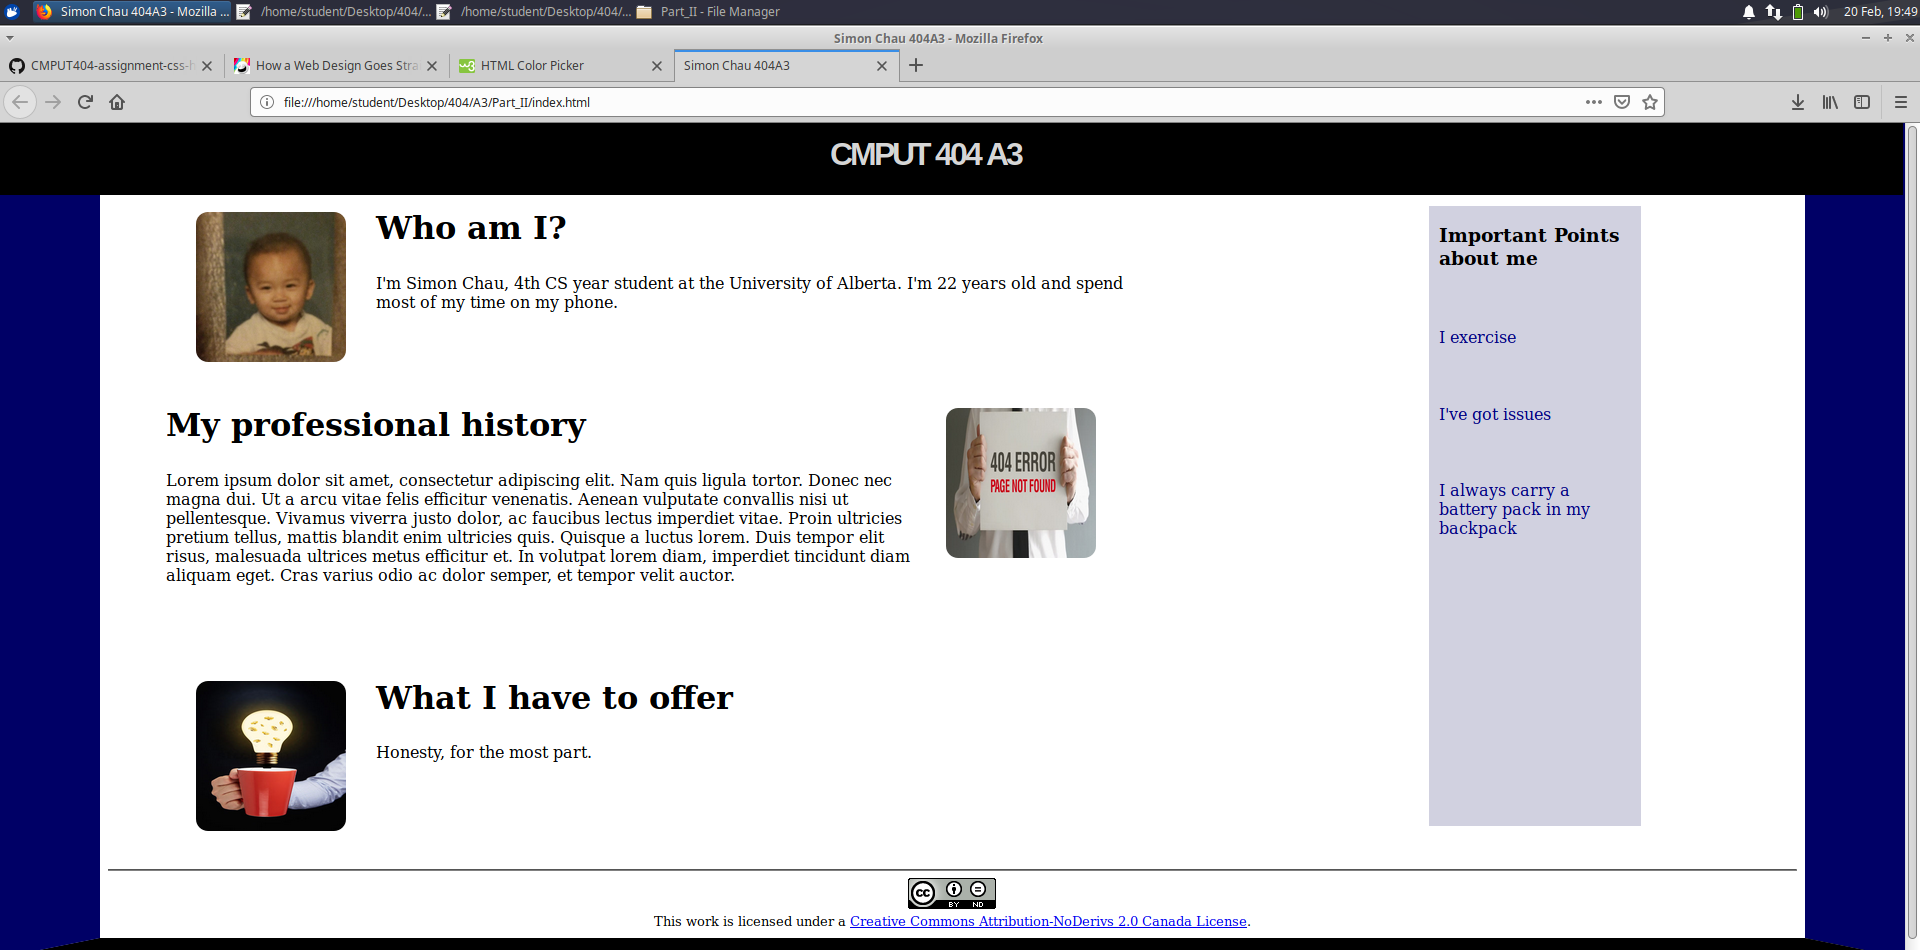
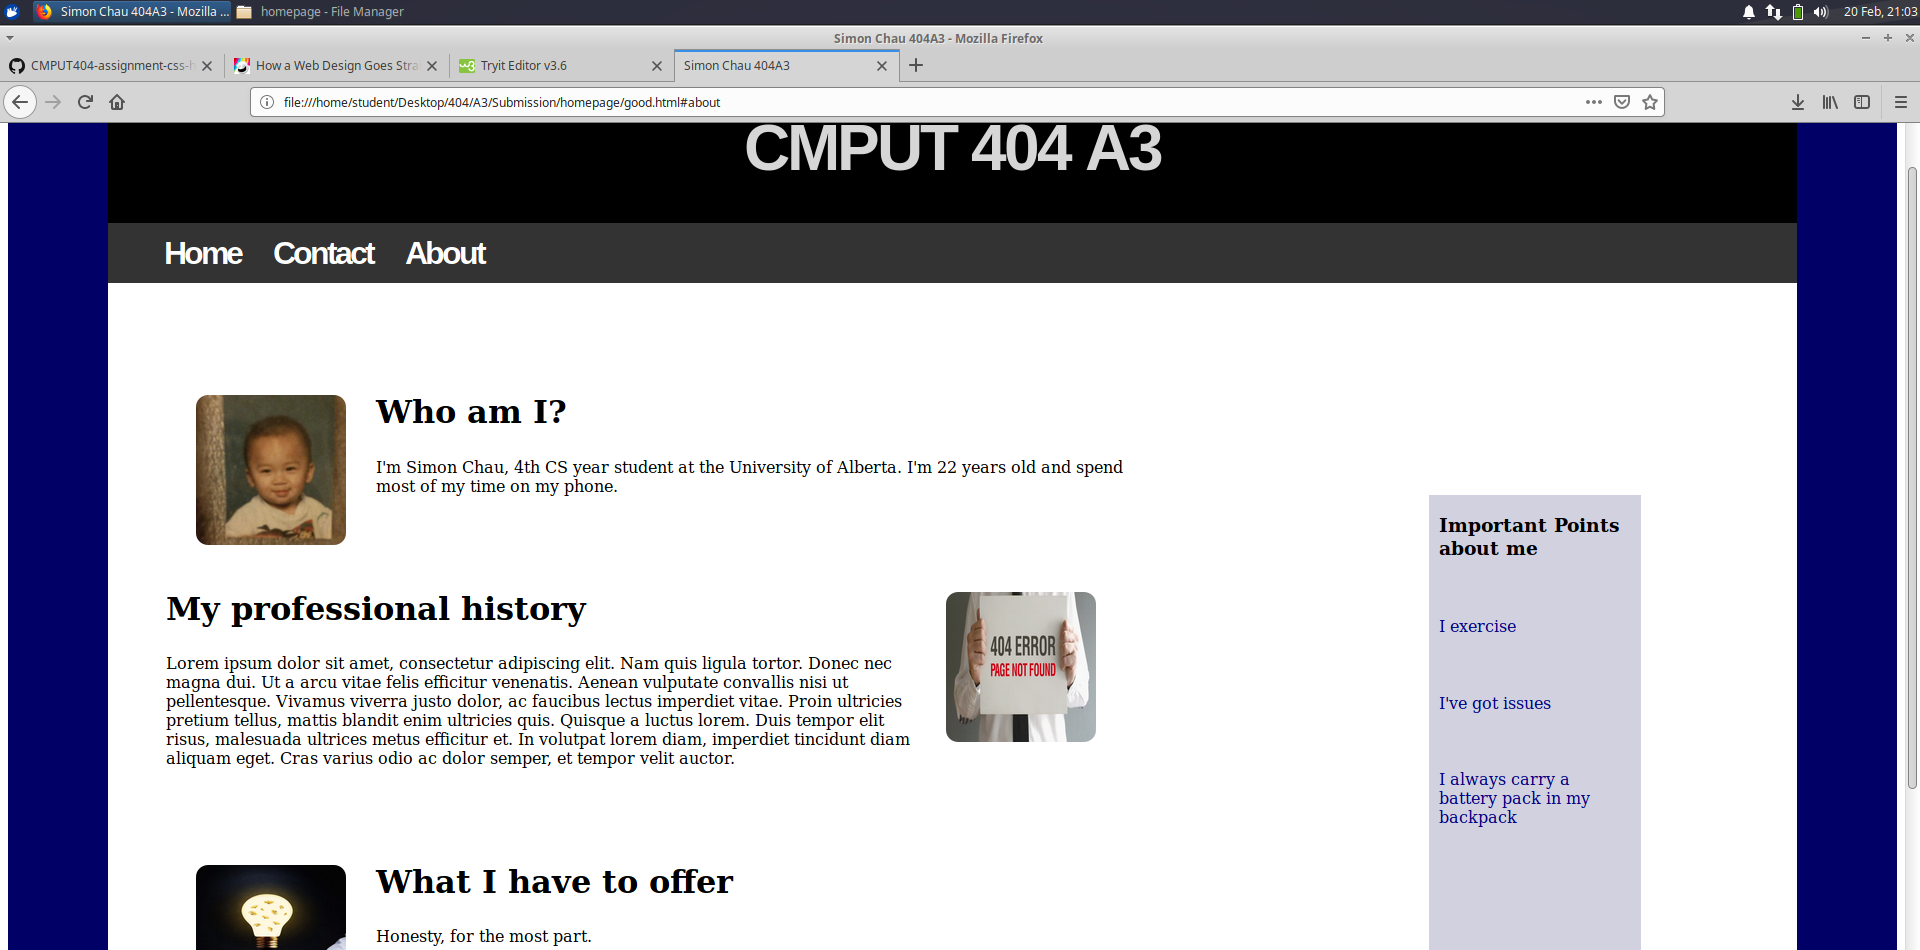
added a 'nav bar', changed bad css stylings and took new screenshots

diff --git a/homepage/ugly.css b/homepage/ugly.css
@@ -1,34 +1,61 @@
 #topHeader {
 	color: #d6d6d6;
-	padding: 100px;
-	background-color: blue;
+	padding: 25px;
+	background-image:  linear-gradient(to right, blue , yellow);
+	font-size: xx-large;
+	font-weight: 800;
+	letter-spacing: -3px;
+	line-height: 1;
+	position: relative;
+	text-align: center;
+	top: 0;
+	width: 100%;
+	font-family: 'Lobster', helvetica, arial;
 }
 
 html {
-	border-left: 200px dotted purple;
-	border-right: 200px dotted green;
-	border-bottom: 200px solid black;
 	font-family: "Comic Sans MS", cursive, sans-serif;
-	font-style: italic;
 }
+
+ul {
+	list-style-type: none;
+	overflow: hidden;
+	background-color: orange;
+	position: relative;
+}
+
+li {
+	float: left;
+	border: 1px solid black;
+}
+
+li a {
+	display: block;
+	color: black;
+	text-align: center;
+	padding: 15px 17px;
+	text-decoration: none;
+}
+
 
 .sectionPicture {
 	height: 200px;
 	width: 200px;
 	border-radius: 5%;
 	padding: 30px;
-	filter: invert(100%);
 }
 
 section {
-	padding-top: 3%;
 	padding-left: 3vw;
 	text-align: left;
 	width: 50vw;
+	background-color: pink;
+	border-radius: 20%;
+	padding: 50px;
 }
 
 h2 {
-	color: pink;
+	font-style: bold;
 }
 
 article {
@@ -36,14 +63,13 @@ article {
 	color: #000080;
 	width: 10vw;
 	height: 75%;
-	background-color: yellow;
+	background-color: #ffcc00;
 	margin-right: 20%;
-	bottom: 15%;
-	left: 75%;
 	padding-left: 10px;
 	padding-right: 10px;
 	position: absolute;
-	font-size: xx-large;
+	left: 75vw;
+	bottom: -28vh;
 }
 
 aside p {

diff --git a/homepage/good.css b/homepage/good.css
@@ -4,22 +4,42 @@
 	font-weight: 800;
 	letter-spacing: -3px;
 	line-height: 1;
-	position: absolute;
 	text-align: center;
 	top: 0;
-	margin-top: -10px;
 	width: 100%;
-	padding: 25px;
 	background-color: black;
 	font-family: 'Lobster', helvetica, arial;
-	margin-left: -160px;
 }
 
-html {
+body {
 	border-left: 100px solid #000066;
 	border-right: 100px solid #000066;
 	border-bottom: 20px solid black;
 }
+
+ul {
+  list-style-type: none;
+  overflow: hidden;
+  background-color: #333;
+  position: relative;
+}
+
+li {
+  float: left;
+}
+
+li a {
+  display: block;
+  color: white;
+  text-align: center;
+  padding: 14px 16px;
+  text-decoration: none;
+}
+
+li a:hover {
+  background-color: #111;
+}
+
 
 .sectionPicture {
 	height: 150px;
@@ -50,7 +70,7 @@ article {
 	height: 75%;
 	background-color: #d1d1e0;
 	margin-right: 20%;
-	bottom: 15%;
+	bottom: -26%;
 	left: 75%;
 	padding-left: 10px;
 	padding-right: 10px;

diff --git a/homepage/good.html b/homepage/good.html
@@ -7,10 +7,17 @@
 </head>
 <body>
 
+<div id="topHeader">
+<h1 id="home"> CMPUT 404 A3 </h1>
 
-<h1 id="topHeader"> CMPUT 404 A3 </h1>
+<ul>
+  <li><a class="active" href="#home">Home</a></li>
+  <li><a href="#contact">Contact</a></li>
+  <li><a href="#about">About</a></li>
+</ul>
+</div>
 
-<section>
+<section id="about">
 	<img class="sectionPicture" src="./images/me.jpg" alt="Simon Chau" align="left">
 	<h2> Who am I? </h2>
 	<p>
@@ -60,6 +67,7 @@
 <br />This work is licensed under a 
 <a rel="license" href="http://creativecommons.org/licenses/by-nd/2.0/ca/">
 Creative Commons Attribution-NoDerivs 2.0 Canada License</a>.
+<aside id="about"> https://github.com/shchau/ </aside>
 </footer>
 
 </body>

diff --git a/homepage/ugly.html b/homepage/ugly.html
@@ -7,10 +7,17 @@
 </head>
 <body>
 
+<div id="topHeader">
+<h1 id="home"> CMPUT 404 A3 </h1>
 
-<h1 id="topHeader"> CMPUT 404 A3 </h1>
+<ul>
+  <li><a class="active" href="#home">Home</a></li>
+  <li><a href="#contact">Contact</a></li>
+  <li><a href="#about">About</a></li>
+</ul>
+</div>
 
-<section>
+<section id="about">
 	<img class="sectionPicture" src="./images/me.jpg" alt="Simon Chau" align="left">
 	<h2> Who am I? </h2>
 	<p>
@@ -60,6 +67,7 @@
 <br />This work is licensed under a 
 <a rel="license" href="http://creativecommons.org/licenses/by-nd/2.0/ca/">
 Creative Commons Attribution-NoDerivs 2.0 Canada License</a>.
+<aside id="about"> https://github.com/shchau/ </aside>
 </footer>
 
 </body>
